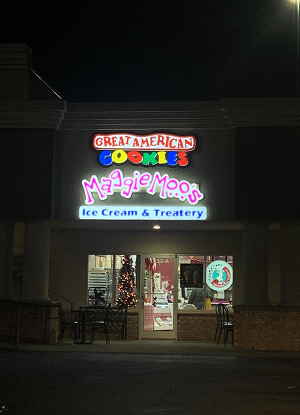
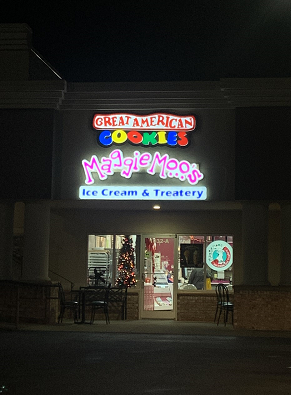
changed social media pictures and hours, added store picture

diff --git a/concerns.html b/concerns.html
@@ -3,6 +3,7 @@
 
 <head>
   <meta charset="utf-8">
+  <meta name="viewport" content="width=device-width, initial-scale=1">
   <meta name="description" content="Ice Cream Website">
   <meta name="keywords" content="treat, ice cream, maggie moos, cookies, cake, yum, good, delicious">
   <meta name="author" content="HDH">
@@ -50,6 +51,7 @@
       <div class="col-md-3 stack2">
         <img src="img/vanice.jpg" class="img-responsive">
       </div>
+
       <div class="col-md-6">
         <div id="accordion">
           <div class="card">
@@ -63,9 +65,10 @@
 
             <div id="collapseOne" class="collapse" aria-labelledby="headingOne" data-parent="#accordion">
               <div class="card-body">
-                <h6>A: We load the truck up with our most popular flavors and toppings requested most by the people we serve. If you have flavors or toppings you want to make sure we bring, just let us know! All of our services include the option of a
-                cup or
-                cone, and we bring spoons and napkins for all guests.</h6>
+                <h6>A: We load the truck up with our most popular flavors and toppings requested most by the people we serve. If you have flavors or toppings you want to make sure we bring, just let us know! All of our services include the option of
+                  a
+                  cup or
+                  cone, and we bring spoons and napkins for all guests.</h6>
               </div>
             </div>
           </div>
@@ -94,8 +97,8 @@
             <div id="collapseThree" class="collapse" aria-labelledby="headingThree" data-parent="#accordion">
               <div class="card-body">
                 <h6>A: We book our portable ice cream mix-in station and MaggieMoo's Truck as much as two years in advance. For all other catering we prefer to have a week’s notice so that we can properly prepare and secure necessary products and
-                staffing.
-                But if you need a last minute catering gig, we do everything we can to accommodate!</h6>
+                  staffing.
+                  But if you need a last minute catering gig, we do everything we can to accommodate!</h6>
               </div>
             </div>
           </div>
@@ -138,9 +141,10 @@
             </div>
             <div id="collapseSix" class="collapse" aria-labelledby="headingSix" data-parent="#accordion">
               <div class="card-body">
-                <h6>A: Yes, we require a 25% down payment on the event to officially hold the date. The remaining balance is due at the conclusion of the event. A lot of clients prefer to pay in advance so that they do not have to worry about payment on
-                the
-                date of the event.</h6>
+                <h6>A: Yes, we require a 25% down payment on the event to officially hold the date. The remaining balance is due at the conclusion of the event. A lot of clients prefer to pay in advance so that they do not have to worry about payment
+                  on
+                  the
+                  date of the event.</h6>
 
               </div>
             </div>
@@ -211,8 +215,9 @@
             </div>
             <div id="collapseEleven" class="collapse" aria-labelledby="headingEleven" data-parent="#accordion">
               <div class="card-body">
-                <h6>A: Sure…for example, if you want to have our Ice Cream Mix-in Station, Waffle Baker and Chocolate Dipped Strawberries, we will package those and offer a discount. If you are interested in multiple things, please let us know and we are
-                happy to offer you a custom quote.</h6>
+                <h6>A: Sure…for example, if you want to have our Ice Cream Mix-in Station, Waffle Baker and Chocolate Dipped Strawberries, we will package those and offer a discount. If you are interested in multiple things, please let us know and we
+                  are
+                  happy to offer you a custom quote.</h6>
 
               </div>
             </div>
@@ -228,7 +233,7 @@
             <div id="collapseTwelve" class="collapse" aria-labelledby="headingTwelve" data-parent="#accordion">
               <div class="card-body">
                 <h6>A: Fortunately, most venues view us similarly to the “cake.” Because we have such a specialized service that they can’t offer, we are rarely turned down by a venue to serve. We have served at various hotels and clubs on numerous
-                occasions. We are happy to speak with the venue on your behalf if you would like.</h6>
+                  occasions. We are happy to speak with the venue on your behalf if you would like.</h6>
 
               </div>
             </div>
@@ -243,9 +248,10 @@
             </div>
             <div id="collapseThirteen" class="collapse" aria-labelledby="headingThirteen" data-parent="#accordion">
               <div class="card-body">
-                <h6>A: Yes—we have our new line of Low Fat Scoopable Yogurt that can be made into virtually any flavor. We also carry Sorbet, which is non-dairy and non-fat. Both products are made fresh in our store, just like the ice cream. We always
-                try to
-                include one of each in our Truck caterings if possible.</h6>
+                <h6>A: Yes—we have our new line of Low Fat Scoopable Yogurt that can be made into virtually any flavor. We also carry Sorbet, which is non-dairy and non-fat. Both products are made fresh in our store, just like the ice cream. We
+                  always
+                  try to
+                  include one of each in our Truck caterings if possible.</h6>
 
               </div>
             </div>
@@ -253,14 +259,15 @@
         </div>
       </div>
       <div class="col-md-3 blue2">
-        <img src="img/blue.png" class="img-responsive">
+        <img src="img/store1.png" class="img-responsive">
         <div class="col-md-6 blue2">
           <img src="img/stack.jpg" class="img-responsive">
         </div>
         <div class="col-md-6">
         </div>
       </div>
-    </div>
+
+  </div>
   </div>
 
 
@@ -268,7 +275,7 @@
   <script src="https://code.jquery.com/jquery-3.3.1.slim.min.js" integrity="sha384-q8i/X+965DzO0rT7abK41JStQIAqVgRVzpbzo5smXKp4YfRvH+8abtTE1Pi6jizo" crossorigin="anonymous"></script>
   <script src="https://cdnjs.cloudflare.com/ajax/libs/popper.js/1.14.7/umd/popper.min.js" integrity="sha384-UO2eT0CpHqdSJQ6hJty5KVphtPhzWj9WO1clHTMGa3JDZwrnQq4sF86dIHNDz0W1" crossorigin="anonymous"></script>
   <script src="https://stackpath.bootstrapcdn.com/bootstrap/4.3.1/js/bootstrap.min.js" integrity="sha384-JjSmVgyd0p3pXB1rRibZUAYoIIy6OrQ6VrjIEaFf/nJGzIxFDsf4x0xIM+B07jRM" crossorigin="anonymous"></script>
-<script src=”main.js”></script>
+  <script src=”main.js”></script>
 </body>
 
 </html>

diff --git a/index.html b/index.html
@@ -3,6 +3,7 @@
 
 <head>
   <meta charset="utf-8">
+  <meta name="viewport" content="width=device-width, initial-scale=1">
   <meta name="description" content="Ice Cream Website">
   <meta name="keywords" content="treat, ice cream, maggie moos, cookies, cake, yum, good, delicious">
   <meta name="author" content="HDH">
@@ -93,10 +94,10 @@
         </div>
         <div class="col-sm-4">
           <h3>Connect</h3>
-          <a href="https://www.facebook.com/marbleslabcreamery" class="fa fa-facebook"><img src="img/facebook.png" alt=""> </a>
-          <a href="https://twitter.com/marbleslab" class="fa fa-twitter"></a>
-          <a href="https://www.linkedin.com/company/maggie-moos" class="fa fa-linkedin"></a>
-          <a href="https://www.instagram.com/marbleslabcreamery/" class="fa fa-instagram"></a>
+          <a href="https://www.facebook.com/marbleslabcreamery"><img src="img/facebook.png" alt=""></a>
+          <a href="https://twitter.com/marbleslab"><img src="img/twitter.png" alt=""></a>
+          <a href="https://www.linkedin.com/company/maggie-moos"><img src="img/linkedin.png" alt=""></a>
+          <a href="https://www.instagram.com/marbleslabcreamery/"><img src="img/instagram.png" alt=""></a>
           <br>
           <a href="https://www.doordash.com/store/maggiemoo-s-ice-cream-and-great-american-cookies-jackson-541625/?utm_campaign=gpa">Doordash</a>
           <br>
@@ -107,11 +108,7 @@
         </div>
         <div class="col-lg-3 col-md-3 col-sm-6 col-xs-12">
           <p class="hours">Hours</p>
-          <h4>Monday 11AM-10PM</h4>
-          <h4>Tuesday 11AM-10PM</h4>
-          <h4>Wednesday 11AM-10PM</h4>
-          <h4>Thursday 11AM-10PM</h4>
-          <h4>Friday 11AM-10PM</h4>
+          <h4>Monday - Friday 11AM-10PM</h4>
           <h4>Saturday 11AM-11PM</h4>
           <h4>Sunday 11AM-10PM</h4>
           <h4>*Hours may differ depending on holidays</h4>
